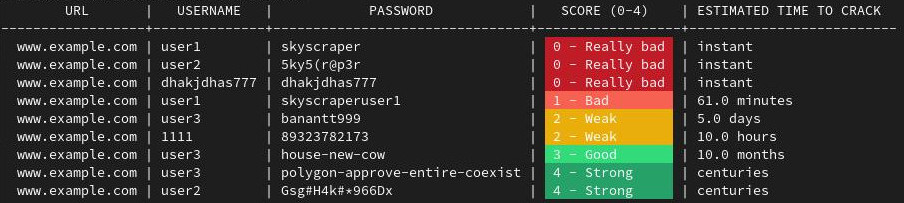
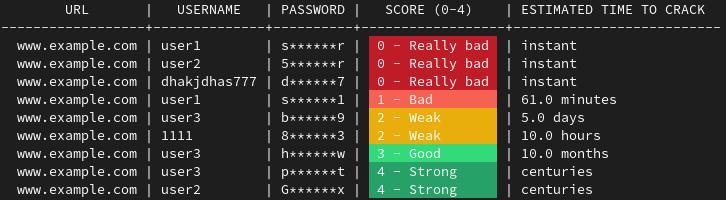
Add redacted password

diff --git a/cmd/core_test.go b/cmd/core_test.go
@@ -10,6 +10,42 @@ import (
 	"testing"
 )
 
+func TestRedactPassword(t *testing.T) {
+
+	tests := []struct {
+		name string
+		in   string
+		out  string
+	}{
+		{
+			name: "Short password",
+			in:   "pwd",
+			out:  "p******d",
+		},
+		{
+			name: "Long password",
+			in:   "passssswwwwwoooorrrrdddd",
+			out:  "p******d",
+		},
+		{
+			name: "Empty password",
+			in:   "",
+			out:  "********",
+		},
+	}
+
+	for _, tt := range tests {
+		t.Run(tt.name, func(t *testing.T) {
+
+			p := redactPassword(tt.in)
+
+			if !reflect.DeepEqual(tt.out, p) {
+				t.Fatalf("got %s, expected %s", p, tt.out)
+			}
+
+		})
+	}
+}
 func TestReadCsv(t *testing.T) {
 
 	/*
@@ -125,27 +161,27 @@ func TestShowTable(t *testing.T) {
 		{
 			name: "One row",
 			in:   [][]string{{"url1", "user1", "password1", "1", "5.00", "instant"}},
-			out: `  URL  | USERNAME | PASSWORD  |   SCORE (0-4)    | ESTIMATED TIME TO CRACK  
--------+----------+-----------+------------------+--------------------------
-  url1 | user1    | password1 | [101m 1 - Bad        [0m | instant                  
+			out: `  URL  | USERNAME | PASSWORD |   SCORE (0-4)    | ESTIMATED TIME TO CRACK  
+-------+----------+----------+------------------+--------------------------
+  url1 | user1    | p******1 | [101m 1 - Bad        [0m | instant                  
 `,
 		},
 		{
 			name: "Five rows with different colors",
 			in: [][]string{
-				{"url0", "user0", "password0", "0", "5.00", "instant"},
-				{"url1", "user1", "password1", "1", "5.00", "instant"},
-				{"url2", "user2", "password2", "2", "5.00", "instant"},
-				{"url3", "user3", "password3", "3", "5.00", "instant"},
-				{"url4", "user4", "password4", "4", "5.00", "instant"},
+				{"url0", "user0", "p******0", "0", "5.00", "instant"},
+				{"url1", "user1", "p******1", "1", "5.00", "instant"},
+				{"url2", "user2", "p******2", "2", "5.00", "instant"},
+				{"url3", "user3", "p******3", "3", "5.00", "instant"},
+				{"url4", "user4", "p******4", "4", "5.00", "instant"},
 			},
-			out: `  URL  | USERNAME | PASSWORD  |   SCORE (0-4)    | ESTIMATED TIME TO CRACK  
--------+----------+-----------+------------------+--------------------------
-  url0 | user0    | password0 | [41m 0 - Really bad [0m | instant                  
-  url1 | user1    | password1 | [101m 1 - Bad        [0m | instant                  
-  url2 | user2    | password2 | [103m 2 - Weak       [0m | instant                  
-  url3 | user3    | password3 | [102m 3 - Good       [0m | instant                  
-  url4 | user4    | password4 | [42m 4 - Strong     [0m | instant                  
+			out: `  URL  | USERNAME | PASSWORD |   SCORE (0-4)    | ESTIMATED TIME TO CRACK  
+-------+----------+----------+------------------+--------------------------
+  url0 | user0    | p******0 | [41m 0 - Really bad [0m | instant                  
+  url1 | user1    | p******1 | [101m 1 - Bad        [0m | instant                  
+  url2 | user2    | p******2 | [103m 2 - Weak       [0m | instant                  
+  url3 | user3    | p******3 | [102m 3 - Good       [0m | instant                  
+  url4 | user4    | p******4 | [42m 4 - Strong     [0m | instant                  
 `,
 		},
 	}

diff --git a/cmd/core.go b/cmd/core.go
@@ -143,6 +143,13 @@ func checkCSVHeader(header []string) (csvHeaderOrder, error) {
 	return order, nil
 }
 
+func redactPassword(p string) string {
+	if len(p) < 3 {
+		return "********"
+	}
+	return fmt.Sprintf("%s******%s", p[0:1], p[len(p)-1:])
+}
+
 func showTable(data [][]string, w io.Writer) {
 
 	table := tablewriter.NewWriter(w)
@@ -172,7 +179,7 @@ func showTable(data [][]string, w io.Writer) {
 			scoreColor = tablewriter.BgGreenColor
 		}
 
-		colorRow := []string{row[0], row[1], row[2], score, row[5]}
+		colorRow := []string{row[0], row[1], redactPassword(row[2]), score, row[5]}
 		table.Rich(colorRow, []tablewriter.Colors{nil, nil, nil, {scoreColor}})
 
 	}
